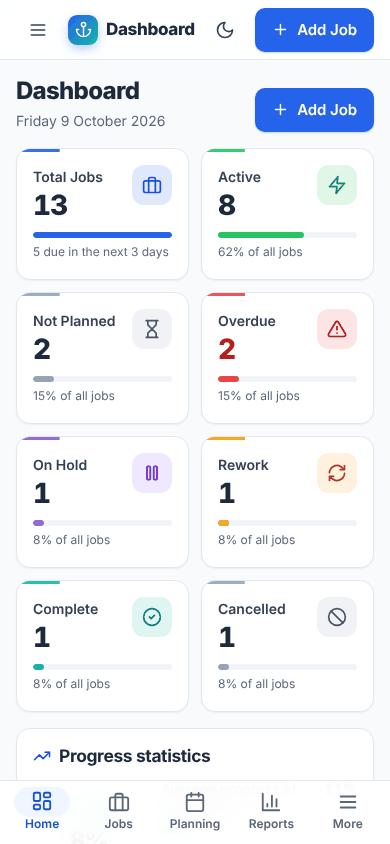
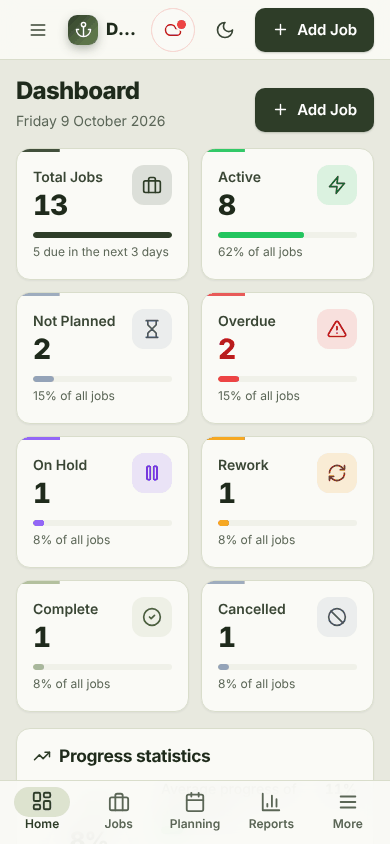
Switch colour scheme to soft white, sage and olive
Apply the chosen palette (#E8E9DF, #A9B887, #2E3D28) to the light and
dark design tokens, logo, app icons, splash screens, manifest and
browser theme colours. Status colours are unchanged. Light-theme green
and amber text are one shade deeper to keep 4.5:1 on the sage
background (axe-core: 0 violations in both themes). Service worker
cache bumped to v2.2.0 so installed apps pick up the new look.

Claude-Session: https://claude.ai/code/session_01AwKwqTf3rht2sgqKtHfd9P

diff --git a/styles.css b/styles.css
@@ -18,18 +18,18 @@
   color-scheme: light;
 
   /* Brand */
-  --primary:        #2563EB;
-  --primary-hover:  #1D4ED8;
-  --primary-btn:    #2563EB;
-  --primary-btn-hover: #1D4ED8;
+  --primary:        #2E3D28;
+  --primary-hover:  #1F2A1B;
+  --primary-btn:    #2E3D28;
+  --primary-btn-hover: #1F2A1B;
   --primary-on:     #FFFFFF;
-  --primary-text:   #1D4ED8;
-  --primary-soft:   #EFF6FF;
-  --primary-ring:   rgba(37, 99, 235, .35);
-  --secondary:      #1E293B;
-  --accent:         #14B8A6;
-  --accent-text:    #0F766E;
-  --accent-soft:    #F0FDFA;
+  --primary-text:   #2E3D28;
+  --primary-soft:   #DDE3CF;
+  --primary-ring:   rgba(46, 61, 40, .35);
+  --secondary:      #2E3D28;
+  --accent:         #A9B887;
+  --accent-text:    #4A5F3F;
+  --accent-soft:    #EEF2E4;
 
   /* Status (fills = spec colours, *-text = AA text shades) */
   --success:        #22C55E;
@@ -37,24 +37,24 @@
   --danger:         #EF4444;
 
   /* Surfaces & text */
-  --bg:        #F8FAFC;
-  --surface:   #FFFFFF;
-  --surface2:  #F1F5F9;
-  --surface3:  #E2E8F0;
-  --raised:    #FFFFFF;
-  --input-bg:  #FFFFFF;
-  --border:    #E2E8F0;
-  --border2:   #CBD5E1;
-  --border-input: #7C8AA0;
-  --text:      #1E293B;
-  --text2:     #334155;
-  --text3:     #5B6779;
-  --muted:     #5B6779;
+  --bg:        #E8E9DF;
+  --surface:   #FAFAF6;
+  --surface2:  #F0F1E9;
+  --surface3:  #D9DDCB;
+  --raised:    #FAFAF6;
+  --input-bg:  #FAFAF6;
+  --border:    #D9DDCB;
+  --border2:   #C2C9AE;
+  --border-input: #7D8670;
+  --text:      #1F2A1C;
+  --text2:     #3A4635;
+  --text3:     #5B6656;
+  --muted:     #5B6656;
 
   /* Semantic tokens (names kept from v1 – used throughout app.js) */
-  --green:  #15803D;  --green-bg:  #F0FDF4;  --green-border:  #BBF7D0;
+  --green:  #166534;  --green-bg:  #F0FDF4;  --green-border:  #BBF7D0;
   --blue:   #1D4ED8;  --blue-bg:   #EFF6FF;  --blue-border:   #BFDBFE;
-  --amber:  #B45309;  --amber-bg:  #FFFBEB;  --amber-border:  #FDE68A;
+  --amber:  #92400E;  --amber-bg:  #FFFBEB;  --amber-border:  #FDE68A;
   --red:    #B91C1C;  --red-bg:    #FEF2F2;  --red-border:    #FECACA;
   --purple: #6D28D9;  --purple-bg: #F5F3FF;  --purple-border: #DDD6FE;
   --orange: #C2410C;  --orange-bg: #FFF7ED;  --orange-border: #FED7AA;
@@ -70,14 +70,14 @@
   --slack-green: var(--green); --slack-red: var(--red); --slack-purple: var(--purple);
 
   /* Planning grid */
-  --plan-head-bg: #FFFFFF;
-  --plan-weekend-bg: #F1F5F9;
-  --plan-today-bg: #EFF6FF;
+  --plan-head-bg: #FAFAF6;
+  --plan-weekend-bg: #F0F1E9;
+  --plan-today-bg: #E4EBD5;
   --plan-holiday-bg: #FFF1F2;
   --plan-leave-bg: #FDF2F8;
   --plan-comp-bg: #FEFCE8;
-  --plan-person-bg: #1E293B;
-  --plan-person-text: #F8FAFC;
+  --plan-person-bg: #2E3D28;
+  --plan-person-text: #F3F5EE;
 
   /* Shape, depth, spacing (8px grid) */
   --r: 10px; --rl: 12px; --rx: 14px; --r-pill: 999px;
@@ -117,35 +117,35 @@
 /* Dark theme — applied by data-theme (set before paint) */
 :root[data-theme="dark"] {
   color-scheme: dark;
-  --primary:        #3B82F6;
-  --primary-hover:  #60A5FA;
-  --primary-btn:    #2563EB;
-  --primary-btn-hover: #1D4ED8;
+  --primary:        #A9B887;
+  --primary-hover:  #C3D0A4;
+  --primary-btn:    #4A5F3F;
+  --primary-btn-hover: #3D4F34;
   --primary-on:     #FFFFFF;
-  --primary-text:   #60A5FA;
-  --primary-soft:   rgba(59, 130, 246, .14);
-  --primary-ring:   rgba(96, 165, 250, .5);
-  --secondary:      #0B1222;
-  --accent:         #2DD4BF;
-  --accent-text:    #2DD4BF;
-  --accent-soft:    rgba(45, 212, 191, .12);
+  --primary-text:   #C3D0A4;
+  --primary-soft:   rgba(169, 184, 135, .15);
+  --primary-ring:   rgba(169, 184, 135, .5);
+  --secondary:      #11170F;
+  --accent:         #A9B887;
+  --accent-text:    #A9B887;
+  --accent-soft:    rgba(169, 184, 135, .12);
   --success:        #22C55E;
   --warning:        #FBBF24;
   --danger:         #F87171;
 
-  --bg:        #0F172A;
-  --surface:   #1E293B;
-  --surface2:  #172235;
-  --surface3:  #334155;
-  --raised:    #243247;
-  --input-bg:  #0F172A;
-  --border:    #2C3A50;
-  --border2:   #3B4A61;
-  --border-input: #64748B;
-  --text:      #F8FAFC;
-  --text2:     #CBD5E1;
-  --text3:     #94A3B8;
-  --muted:     #94A3B8;
+  --bg:        #141912;
+  --surface:   #20281D;
+  --surface2:  #1A2118;
+  --surface3:  #2F3A2A;
+  --raised:    #253021;
+  --input-bg:  #141912;
+  --border:    #2F3A2A;
+  --border2:   #41503A;
+  --border-input: #6B7A62;
+  --text:      #F3F5EE;
+  --text2:     #D3D9C8;
+  --text3:     #AEB89C;
+  --muted:     #AEB89C;
 
   --green:  #4ADE80;  --green-bg:  rgba(34, 197, 94, .12);  --green-border:  rgba(34, 197, 94, .32);
   --blue:   #60A5FA;  --blue-bg:   rgba(59, 130, 246, .14); --blue-border:   rgba(96, 165, 250, .35);
@@ -158,13 +158,13 @@
   --rose-bg: rgba(251, 113, 133, .14); --rose-text: #FDA4AF; --rose-border: rgba(251, 113, 133, .35);
   --complete-bg: rgba(34, 197, 94, .14); --complete-text: #86EFAC; --complete-border: rgba(34, 197, 94, .35);
 
-  --plan-head-bg: #1E293B;
-  --plan-weekend-bg: #172235;
-  --plan-today-bg: rgba(59, 130, 246, .16);
+  --plan-head-bg: #20281D;
+  --plan-weekend-bg: #1A2118;
+  --plan-today-bg: rgba(169, 184, 135, .14);
   --plan-holiday-bg: rgba(248, 113, 113, .10);
   --plan-leave-bg: rgba(244, 114, 182, .10);
   --plan-comp-bg: rgba(251, 191, 36, .10);
-  --plan-person-bg: #0B1222;
+  --plan-person-bg: #0D120B;
   --plan-person-text: #F8FAFC;
 
   --shadow-xs: 0 1px 2px rgba(0, 0, 0, .3);
@@ -289,8 +289,8 @@ img, svg { display: block; max-width: 100%; }
   width: 36px; height: 36px; border-radius: 10px;
   display: grid; place-items: center; flex-shrink: 0;
   color: #fff;
-  background: linear-gradient(135deg, #2563EB 0%, #14B8A6 100%);
-  box-shadow: 0 4px 12px -2px rgba(37, 99, 235, .45);
+  background: linear-gradient(135deg, #2E3D28 0%, #6F8A55 100%);
+  box-shadow: 0 4px 12px -2px rgba(46, 61, 40, .45);
 }
 .logo-icon .ic { width: 20px; height: 20px; }
 .logo-icon.sm { width: 30px; height: 30px; border-radius: 9px; }
@@ -491,8 +491,8 @@ img, svg { display: block; max-width: 100%; }
 .btn:hover { background: var(--surface2); box-shadow: var(--shadow); }
 .btn:active { transform: scale(.97); }
 .btn .ic { width: 17px; height: 17px; }
-.btn-primary { background: var(--primary-btn); color: var(--primary-on); border-color: transparent; box-shadow: 0 1px 2px rgba(37, 99, 235, .25); }
-.btn-primary:hover { background: var(--primary-btn-hover); box-shadow: 0 6px 16px -6px rgba(37, 99, 235, .6); }
+.btn-primary { background: var(--primary-btn); color: var(--primary-on); border-color: transparent; box-shadow: 0 1px 2px rgba(46, 61, 40, .25); }
+.btn-primary:hover { background: var(--primary-btn-hover); box-shadow: 0 6px 16px -6px rgba(46, 61, 40, .55); }
 .btn-secondary { background: var(--primary-soft); color: var(--primary-text); border-color: transparent; }
 .btn-secondary:hover { background: color-mix(in srgb, var(--primary) 18%, transparent); }
 .btn-ghost { background: transparent; border-color: transparent; color: var(--text2); }
@@ -1063,11 +1063,11 @@ select, select.form-ctrl {
 }
 .plan-person-inner { display: flex; flex-direction: column; gap: 6px; padding: var(--s3); }
 .plan-person-link { min-height: 32px; color: #fff; font-weight: 700; font-size: .9375rem; text-align: left; line-height: 1.25; overflow-wrap: anywhere; border-radius: 4px; }
-.plan-person-link:hover { color: #7DD3FC; text-decoration: underline; text-underline-offset: 3px; }
+.plan-person-link:hover { color: #C3D0A4; text-decoration: underline; text-underline-offset: 3px; }
 .plan-person-tags { display: flex; gap: 4px; flex-wrap: wrap; }
 .pp-tag { font-size: 11px; font-weight: 700; padding: 1px 6px; border-radius: 4px; color: #fff; letter-spacing: .03em; }
-.pp-tag.loc-HO { background: #2563EB; }
-.pp-tag.loc-COK { background: #0F766E; }
+.pp-tag.loc-HO { background: #4A5F3F; }
+.pp-tag.loc-COK { background: #6B5B2E; }
 .pp-tag.over { background: #BE123C; }
 
 .plan-table td.pc:focus-visible { outline-offset: -3px; }
@@ -1437,7 +1437,7 @@ input[type="date"].form-ctrl::-webkit-date-and-time-value { text-align: left; }
 .file-drop-hint { font-size: var(--fs-sm); color: var(--text3); font-family: var(--mono); }
 .undo-import { padding: var(--s3); border-radius: var(--r); background: var(--amber-bg); border: 1px solid var(--amber-border); display: flex; flex-direction: column; gap: var(--s2); align-items: flex-start; }
 .schema-box {
-  background: #0B1222; color: #CBD5E1; border-radius: var(--rl);
+  background: #1A2118; color: #D3D9C8; border-radius: var(--rl);
   padding: var(--s4); font-family: var(--mono); font-size: .8125rem; line-height: 1.6;
   overflow: auto; max-height: 320px; white-space: pre;
 }

diff --git a/tools/generate-icons.js b/tools/generate-icons.js
@@ -8,7 +8,7 @@ const logo = fs.readFileSync(path.join(root, 'assets/logo.svg'), 'utf8');
 
 // Maskable: full-bleed background, artwork inside the central 80% safe zone
 const maskable = `<svg xmlns="http://www.w3.org/2000/svg" viewBox="0 0 512 512">
-  <defs><linearGradient id="g" x1="0" y1="0" x2="1" y2="1"><stop offset="0" stop-color="#2563EB"/><stop offset="1" stop-color="#14B8A6"/></linearGradient></defs>
+  <defs><linearGradient id="g" x1="0" y1="0" x2="1" y2="1"><stop offset="0" stop-color="#2E3D28"/><stop offset="1" stop-color="#6F8A55"/></linearGradient></defs>
   <rect width="512" height="512" fill="url(#g)"/>
   <g transform="translate(136 136) scale(10)" fill="none" stroke="#fff" stroke-width="2.1" stroke-linecap="round" stroke-linejoin="round">
     <circle cx="12" cy="5" r="3"/><path d="M12 22V8M8.5 11h7"/><path d="M5 12H2a10 10 0 0 0 20 0h-3"/>
@@ -36,10 +36,10 @@ const splashes = [[1320,2868],[1206,2622],[1290,2796],[1179,2556],[1284,2778],[1
   for (const [w, h] of splashes) {
     const s = Math.round(Math.min(w, h) * 0.22);
     await page.setViewportSize({ width: w, height: h });
-    await page.setContent(`<html><body style="margin:0;width:${w}px;height:${h}px;background:#F8FAFC;display:flex;flex-direction:column;align-items:center;justify-content:center;font-family:'Segoe UI',system-ui,Arial,sans-serif">
-      ${logo.replace('<svg ', `<svg width="${s}" height="${s}" style="filter:drop-shadow(0 ${s*0.06}px ${s*0.12}px rgba(37,99,235,.3))" `)}
-      <div style="margin-top:${s*0.28}px;font-size:${s*0.26}px;font-weight:800;color:#1E293B;letter-spacing:-.02em">Job Tracker</div>
-      <div style="margin-top:${s*0.06}px;font-size:${s*0.12}px;font-weight:500;color:#5B6779">Stability Engineering</div>
+    await page.setContent(`<html><body style="margin:0;width:${w}px;height:${h}px;background:#E8E9DF;display:flex;flex-direction:column;align-items:center;justify-content:center;font-family:'Segoe UI',system-ui,Arial,sans-serif">
+      ${logo.replace('<svg ', `<svg width="${s}" height="${s}" style="filter:drop-shadow(0 ${s*0.06}px ${s*0.12}px rgba(46,61,40,.3))" `)}
+      <div style="margin-top:${s*0.28}px;font-size:${s*0.26}px;font-weight:800;color:#1F2A1C;letter-spacing:-.02em">Job Tracker</div>
+      <div style="margin-top:${s*0.06}px;font-size:${s*0.12}px;font-weight:500;color:#5B6656">Stability Engineering</div>
     </body></html>`);
     await page.screenshot({ path: path.join(root, `icons/splash/splash-${w}x${h}.png`) });
   }

diff --git a/index.html b/index.html
@@ -6,15 +6,15 @@
 <title>Job Tracker – Stability</title>
 <meta name="description" content="Job Tracker for naval and stability engineering: track jobs, scopes, statuses, progress, planning, team availability and financial reports. Works offline.">
 <meta name="color-scheme" content="light dark">
-<meta name="theme-color" content="#FFFFFF" media="(prefers-color-scheme: light)">
-<meta name="theme-color" content="#1E293B" media="(prefers-color-scheme: dark)">
+<meta name="theme-color" content="#FAFAF6" media="(prefers-color-scheme: light)">
+<meta name="theme-color" content="#20281D" media="(prefers-color-scheme: dark)">
 <meta name="application-name" content="Job Tracker">
 <meta name="mobile-web-app-capable" content="yes">
 <meta name="apple-mobile-web-app-capable" content="yes">
 <meta name="apple-mobile-web-app-title" content="Job Tracker">
 <meta name="apple-mobile-web-app-status-bar-style" content="default">
 <meta name="format-detection" content="telephone=no">
-<meta name="msapplication-TileColor" content="#2563EB">
+<meta name="msapplication-TileColor" content="#2E3D28">
 
 <!-- Theme is applied before first paint so there is never a flash of the wrong theme -->
 <script>

diff --git a/components/pwa.js b/components/pwa.js
@@ -9,7 +9,7 @@
    • Periodic background sync (where supported) to check for updates
    ════════════════════════════════════════════════════════════════════ */
 
-const APP_VERSION = '2.1.1';
+const APP_VERSION = '2.2.0';
 let _deferredInstall = null;
 let _swReg = null;
 let _updateRequested = false;

diff --git a/service-worker.js b/service-worker.js
@@ -14,7 +14,7 @@
      download the new files.
    ════════════════════════════════════════════════════════════════════ */
 
-const CACHE_VERSION = 'v2.1.1';
+const CACHE_VERSION = 'v2.2.0';
 const SHELL_CACHE = `jt-shell-${CACHE_VERSION}`;
 const RUNTIME_CACHE = 'jt-runtime-v1';
 

diff --git a/components/theme.js b/components/theme.js
@@ -31,7 +31,7 @@ function applyTheme(pref, animate) {
   root.setAttribute('data-theme-pref', pref);
 
   // Browser/OS chrome colour follows the app header
-  const bar = theme === 'dark' ? '#1E293B' : '#FFFFFF';
+  const bar = theme === 'dark' ? '#20281D' : '#FAFAF6';
   document.querySelectorAll('meta[name="theme-color"]').forEach(m => m.setAttribute('content', bar));
 
   // Sync controls

diff --git a/docs/REPORT.md b/docs/REPORT.md
@@ -141,7 +141,6 @@ Browser notes: Android Chrome, Samsung Internet, Windows Chrome/Edge and macOS C
 - **Typography:** Inter → Segoe UI → system → Arial; 16px base; `clamp()` headings.
 - **Spacing:** 8px grid (`--s1` 4px … `--s8` 48px).
 - **Radius:** 10 / 12 / 14px. **Shadows:** soft, layered.
-- **Light theme:** background `#F8FAFC`, cards `#FFFFFF`, primary `#2563EB`, secondary `#1E293B`, accent `#14B8A6`, success `#22C55E`, warning `#F59E0B`, danger `#EF4444`, text `#1E293B`.
-- **Dark theme:** background `#0F172A`, surface `#1E293B`, primary `#3B82F6`, accent `#2DD4BF`, success `#22C55E`, warning `#FBBF24`, danger `#F87171`, text `#F8FAFC`, muted `#94A3B8`.
+- **Colour scheme (v2.2, "Soft White, Sage & Olive"):** light: background `#E8E9DF`, cards `#FAFAF6`, primary/buttons deep olive `#2E3D28` (11.6:1 with white), accent sage `#A9B887`, text `#1F2A1C`, muted `#5B6656`. Dark: background `#141912`, surface `#20281D`, buttons `#4A5F3F`, accent sage `#A9B887`, text `#F3F5EE`, muted `#AEB89C`. Status colours (red overdue, green ongoing, amber rework, purple hold) are unchanged so states stay recognisable. 0 axe-core violations in both themes.
 - **Theme:** System / Light / Dark. Applied before first paint (no flash), remembered, follows the OS live in System mode, with a smooth transition when switching.
 - **Motion:** 150 / 250 / 400ms; transform/opacity-based. Page fade-up with staggered reveal, skeleton shimmer, card lift, button ripple and press, expanding job rows, fade + scale dialogs, sliding nav indicator, toast slide-in/fade-out, animated counters, progress bars and completion ring.
